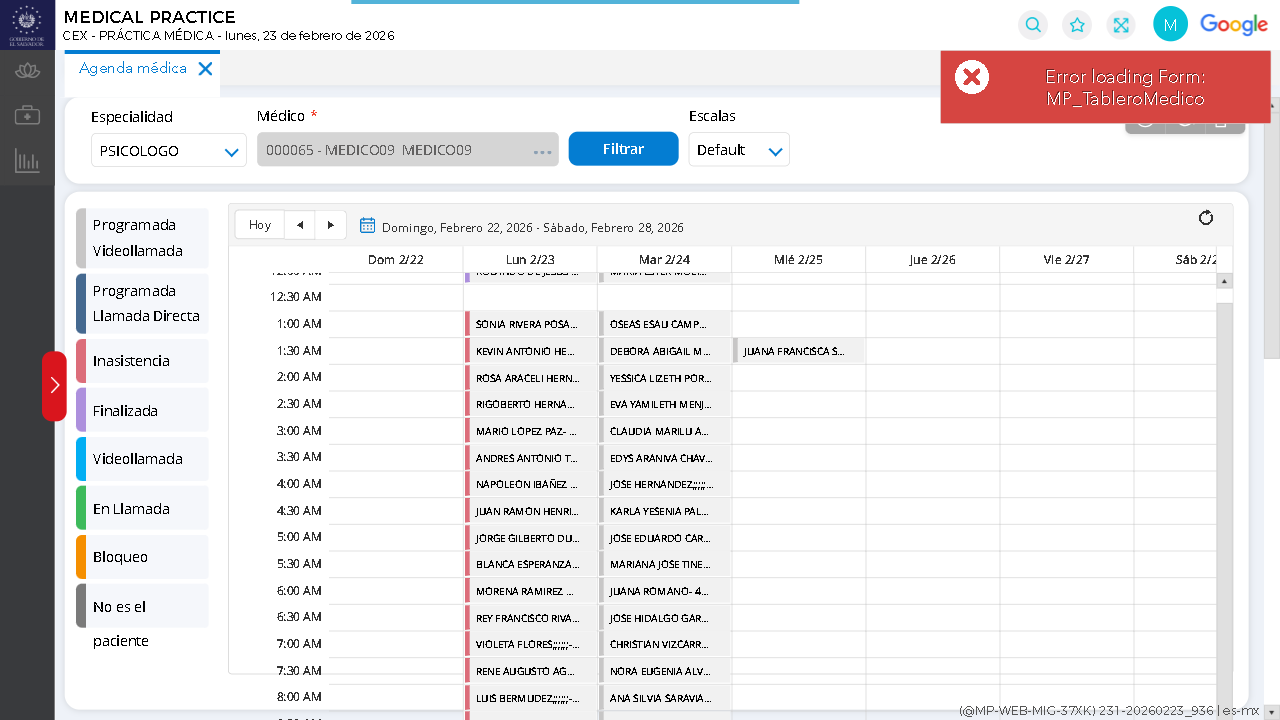
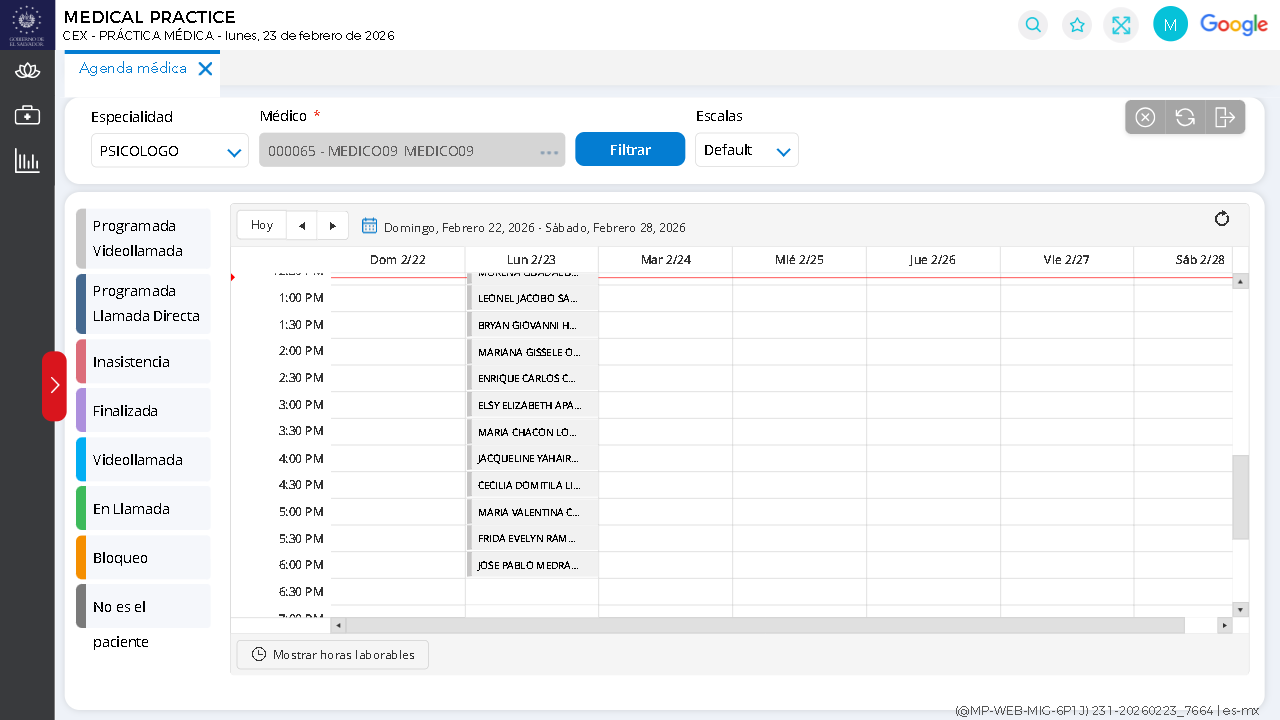
add tiempo en la opcion 2 seleccionar celda y tomar un tiempo para ingresar al modulo del paciente

diff --git a/login_medico_auto.js b/login_medico_auto.js
@@ -3701,8 +3701,149 @@ async function captureNotaFieldsByKeyboard(page, keys = [], textValue = '') {
   return { captured, total };
 }
 
+/**
+ * Detecta y cierra el modal "Catálogo de diagnósticos" si está abierto.
+ * Este modal se abre accidentalmente cuando el bot clickea el campo de búsqueda
+ * de diagnóstico en vez del botón "Generar". Usa 2-phase: detectar con evaluate,
+ * cerrar con Playwright locator para asegurar el postback Telerik.
+ */
+async function dismissCatalogoDiagnosticosModal(page) {
+  if (isPageClosedSafe(page)) return false;
+  try {
+    const modalInfo = await page.evaluate(() => {
+      const normalize = (s) =>
+        (s || '')
+          .toLowerCase()
+          .normalize('NFD')
+          .replace(/[\u0300-\u036f]/g, '')
+          .replace(/\s+/g, ' ')
+          .trim();
+      const visible = (el) => {
+        if (!el) return false;
+        const st = getComputedStyle(el);
+        const r = el.getBoundingClientRect();
+        return st.display !== 'none' && st.visibility !== 'hidden' && r.width > 20 && r.height > 20;
+      };
+
+      // Buscar ventanas Kendo/Telerik visibles
+      const windows = Array.from(document.querySelectorAll('.k-window, [role="dialog"], .RadWindow'))
+        .filter(visible);
+
+      for (const win of windows) {
+        const titleBar = win.querySelector('.k-window-titlebar, .rwTitlebar, .k-dialog-titlebar');
+        if (!titleBar) continue;
+        const titleText = normalize(titleBar.textContent || '');
+        if (!titleText.includes('catalogo de diagnostico') && !titleText.includes('catálogo de diagnóstico')) continue;
+
+        // Encontrado - buscar botón X de cierre
+        const closeSelectors = [
+          '.k-window-titlebar .k-window-titlebar-actions a',
+          '.k-window-titlebar .k-window-titlebar-actions button',
+          '.k-window-titlebar .k-window-action',
+          '.k-window-titlebar [aria-label="Close"]',
+          '.k-window-titlebar .k-i-close',
+          '.k-window-titlebar .k-svg-icon.k-svg-i-x',
+          '.rwTitlebar .rwCloseButton',
+          'button[aria-label="Close"]',
+          'a[title*="close" i]',
+          'a[title*="cerrar" i]'
+        ];
+
+        let closeBtnId = null;
+        for (const sel of closeSelectors) {
+          const btn = win.querySelector(sel);
+          if (btn instanceof HTMLElement && visible(btn)) {
+            if (!btn.id) btn.setAttribute('data-catalogo-close-tmp', '1');
+            closeBtnId = btn.id || null;
+            return { found: true, closeBtnId, hasTmpAttr: !btn.id, title: titleText.slice(0, 40) };
+          }
+        }
+
+        // Fallback: buscar cualquier botón/enlace con X o close
+        const allBtns = Array.from(win.querySelectorAll('button, a, span')).filter(visible);
+        const xBtn = allBtns.find((n) => {
+          const t = normalize(n.textContent || n.getAttribute('title') || n.getAttribute('aria-label') || '');
+          return t === 'x' || t === '×' || t === '✕' || t.includes('close') || t.includes('cerrar');
+        });
+        if (xBtn) {
+          if (!xBtn.id) xBtn.setAttribute('data-catalogo-close-tmp', '1');
+          return { found: true, closeBtnId: xBtn.id || null, hasTmpAttr: !xBtn.id, title: titleText.slice(0, 40) };
+        }
+
+        return { found: true, closeBtnId: null, hasTmpAttr: false, title: titleText.slice(0, 40) };
+      }
+      return { found: false };
+    });
+
+    if (!modalInfo?.found) return false;
+
+    console.log(`CATALOGO_DIAGNOSTICOS_MODAL_DETECTED title="${modalInfo.title || ''}"`);
+
+    // Paso 2: cerrar con Playwright locator
+    if (modalInfo.closeBtnId) {
+      try {
+        const loc = page.locator(`#${CSS.escape(modalInfo.closeBtnId)}`).first();
+        if ((await loc.count()) > 0) {
+          await loc.click({ force: true, timeout: 2000 });
+          await waitForTimeoutRaw(page, 300);
+          console.log('CATALOGO_DIAGNOSTICOS_MODAL_CLOSED via=locator_id');
+          return true;
+        }
+      } catch {}
+    }
+
+    if (modalInfo.hasTmpAttr) {
+      try {
+        const loc = page.locator('[data-catalogo-close-tmp="1"]').first();
+        if ((await loc.count()) > 0) {
+          await loc.click({ force: true, timeout: 2000 });
+          await waitForTimeoutRaw(page, 300);
+          try { await page.evaluate(() => { document.querySelectorAll('[data-catalogo-close-tmp]').forEach(e => e.removeAttribute('data-catalogo-close-tmp')); }); } catch {}
+          console.log('CATALOGO_DIAGNOSTICOS_MODAL_CLOSED via=locator_tmp_attr');
+          return true;
+        }
+      } catch {}
+    }
+
+    // Fallback: selectores genéricos de cierre en ventana Kendo
+    const fallbackSelectors = [
+      '.k-window .k-window-titlebar .k-window-action',
+      '.k-window .k-window-titlebar .k-i-close',
+      '.k-window .k-window-titlebar [aria-label="Close"]'
+    ];
+    for (const sel of fallbackSelectors) {
+      try {
+        const loc = page.locator(sel).first();
+        if ((await loc.count()) > 0 && (await loc.isVisible())) {
+          await loc.click({ force: true, timeout: 2000 });
+          await waitForTimeoutRaw(page, 300);
+          console.log(`CATALOGO_DIAGNOSTICOS_MODAL_CLOSED via=locator_fallback sel="${sel}"`);
+          return true;
+        }
+      } catch {}
+    }
+
+    // Último fallback: Escape
+    try {
+      await page.keyboard.press('Escape');
+      await waitForTimeoutRaw(page, 300);
+      console.log('CATALOGO_DIAGNOSTICOS_MODAL_CLOSED via=escape');
+      return true;
+    } catch {}
+
+    console.log('CATALOGO_DIAGNOSTICOS_MODAL_CLOSE_FAIL');
+    return false;
+  } catch {
+    return false;
+  }
+}
+
 async function clickGenerarIaByHumanAction(page) {
   if (isPageClosedSafe(page)) return false;
+
+  // Pre-check: cerrar modal "Catálogo de diagnósticos" si está abierto
+  await dismissCatalogoDiagnosticosModal(page);
+
   await scrollNotaMedicaToTop(page);
 
   // Paso 1: detectar botones "Generar" y obtener el mejor candidato (solo detección, sin click)
@@ -5484,6 +5625,9 @@ async function ensureNotaMedicaReadyForFinalize(page, origin = '') {
   // Paso 2: click en "Nota médica"
   const notaOpened = await openNotaMedicaFromSidebar(page, origin);
   if (!notaOpened) return false;
+
+  // Paso 2.5: cerrar modal "Catálogo de diagnósticos" si se abrió accidentalmente
+  await dismissCatalogoDiagnosticosModal(page);
 
   const initialState = await readNotaMedicaRequiredState(page);
   console.log(
@@ -10783,10 +10927,10 @@ async function openModuleFromExistingAppointmentInCalendar(page) {
       const opened = await openModuloFromExistingAppointmentSlot(page, slot, scanned, {
         requireVisibleQuickStatus: true,
         requireProgramadaQuickStatus: strictProgramadaVideo,
-        skipForceTooltip: true,
+        skipForceTooltip: false,
         controlledTwoStep: true,
-        maxAttempts: 1,
-        maxFocusLoops: 1
+        maxAttempts: 2,
+        maxFocusLoops: 2
       });
       if (opened.ok) {
         console.log(
@@ -10804,10 +10948,16 @@ async function openModuleFromExistingAppointmentInCalendar(page) {
       }
 
       console.log(`MODULE_OPEN_SKIP scanned=${scanned} reason=${opened.reason || 'unknown'}`);
+      // Si el Tablero Médico quedó abierto del intento anterior, cerrarlo
+      if (await isTableroMedicoTabActive(page)) {
+        console.log('MODULE_OPEN_SKIP_CLOSE_TABLERO cleaning residual tablero tab');
+        await closeTableroMedicoTab(page);
+        await waitForTimeoutRaw(page, 400);
+      }
       await ensureCalendarContext(page);
       if (MODE2_AUTO_FILTER) await applyAgendaFilter(page);
       await ensureWorkingHoursVisible(page);
-      await waitForTimeoutRaw(page, 260);
+      await waitForTimeoutRaw(page, 400);
     }
 
     if (runtimeFinalizadaSkips >= slots.length && slots.length > 0) {

diff --git a/login_medico_auto.py b/login_medico_auto.py
@@ -375,11 +375,11 @@ def run_node_full_flow() -> int:
     env.setdefault("KEY_RESOLUTION_TIMEOUT_MS", os.getenv("KEY_RESOLUTION_TIMEOUT_MS", "4200"))
     env.setdefault("COMMENT_CLICK_RETRIES", os.getenv("COMMENT_CLICK_RETRIES", "3"))
     env.setdefault("REQUIRE_SAVE_ALERT", os.getenv("REQUIRE_SAVE_ALERT", "1"))
-    env.setdefault("MODULE_LOAD_POLL_TIMEOUT_MS", os.getenv("MODULE_LOAD_POLL_TIMEOUT_MS", "45000"))
+    env.setdefault("MODULE_LOAD_POLL_TIMEOUT_MS", os.getenv("MODULE_LOAD_POLL_TIMEOUT_MS", "90000"))
     env.setdefault("MODULE_LOAD_POLL_INTERVAL_MS", os.getenv("MODULE_LOAD_POLL_INTERVAL_MS", "350"))
     env.setdefault("AUTO_OPEN_NOTA_MEDICA_AFTER_MODULE", os.getenv("AUTO_OPEN_NOTA_MEDICA_AFTER_MODULE", "1"))
     env.setdefault("NOTA_MEDICA_DELAY_MS", os.getenv("NOTA_MEDICA_DELAY_MS", "2000"))
-    env.setdefault("NOTA_MEDICA_CLICK_TIMEOUT_MS", os.getenv("NOTA_MEDICA_CLICK_TIMEOUT_MS", "12000"))
+    env.setdefault("NOTA_MEDICA_CLICK_TIMEOUT_MS", os.getenv("NOTA_MEDICA_CLICK_TIMEOUT_MS", "20000"))
     env.setdefault("AUTO_GENERAR_PLAN_TRATAMIENTO", os.getenv("AUTO_GENERAR_PLAN_TRATAMIENTO", "1"))
     env.setdefault("PLAN_TRATAMIENTO_GENERAR_TIMEOUT_MS", os.getenv("PLAN_TRATAMIENTO_GENERAR_TIMEOUT_MS", "12000"))
     env.setdefault("AUTO_FILL_NOTA_MEDICA_FIELDS", os.getenv("AUTO_FILL_NOTA_MEDICA_FIELDS", "1"))
@@ -505,7 +505,7 @@ def main() -> int:
         f' NOTA_MEDICA_FIELDS_FILL_RETRY_MS={os.getenv("NOTA_MEDICA_FIELDS_FILL_RETRY_MS", "320")}'
         f' POST_SAVE_MODAL_CLICK_LOOP_MAX={os.getenv("POST_SAVE_MODAL_CLICK_LOOP_MAX", "3")}'
         f' POST_SAVE_MODAL_CLICK_LOOP_RETRY_MS={os.getenv("POST_SAVE_MODAL_CLICK_LOOP_RETRY_MS", "70")}'
-        f' MODULE_LOAD_POLL_TIMEOUT_MS={os.getenv("MODULE_LOAD_POLL_TIMEOUT_MS", "45000")}'
+        f' MODULE_LOAD_POLL_TIMEOUT_MS={os.getenv("MODULE_LOAD_POLL_TIMEOUT_MS", "90000")}'
         f' MODULE_LOAD_POLL_INTERVAL_MS={os.getenv("MODULE_LOAD_POLL_INTERVAL_MS", "350")}'
         f' AUTO_GENERAR_PLAN_TRATAMIENTO={os.getenv("AUTO_GENERAR_PLAN_TRATAMIENTO", "1")}'
         f' PLAN_TRATAMIENTO_GENERAR_TIMEOUT_MS={os.getenv("PLAN_TRATAMIENTO_GENERAR_TIMEOUT_MS", "12000")}'
